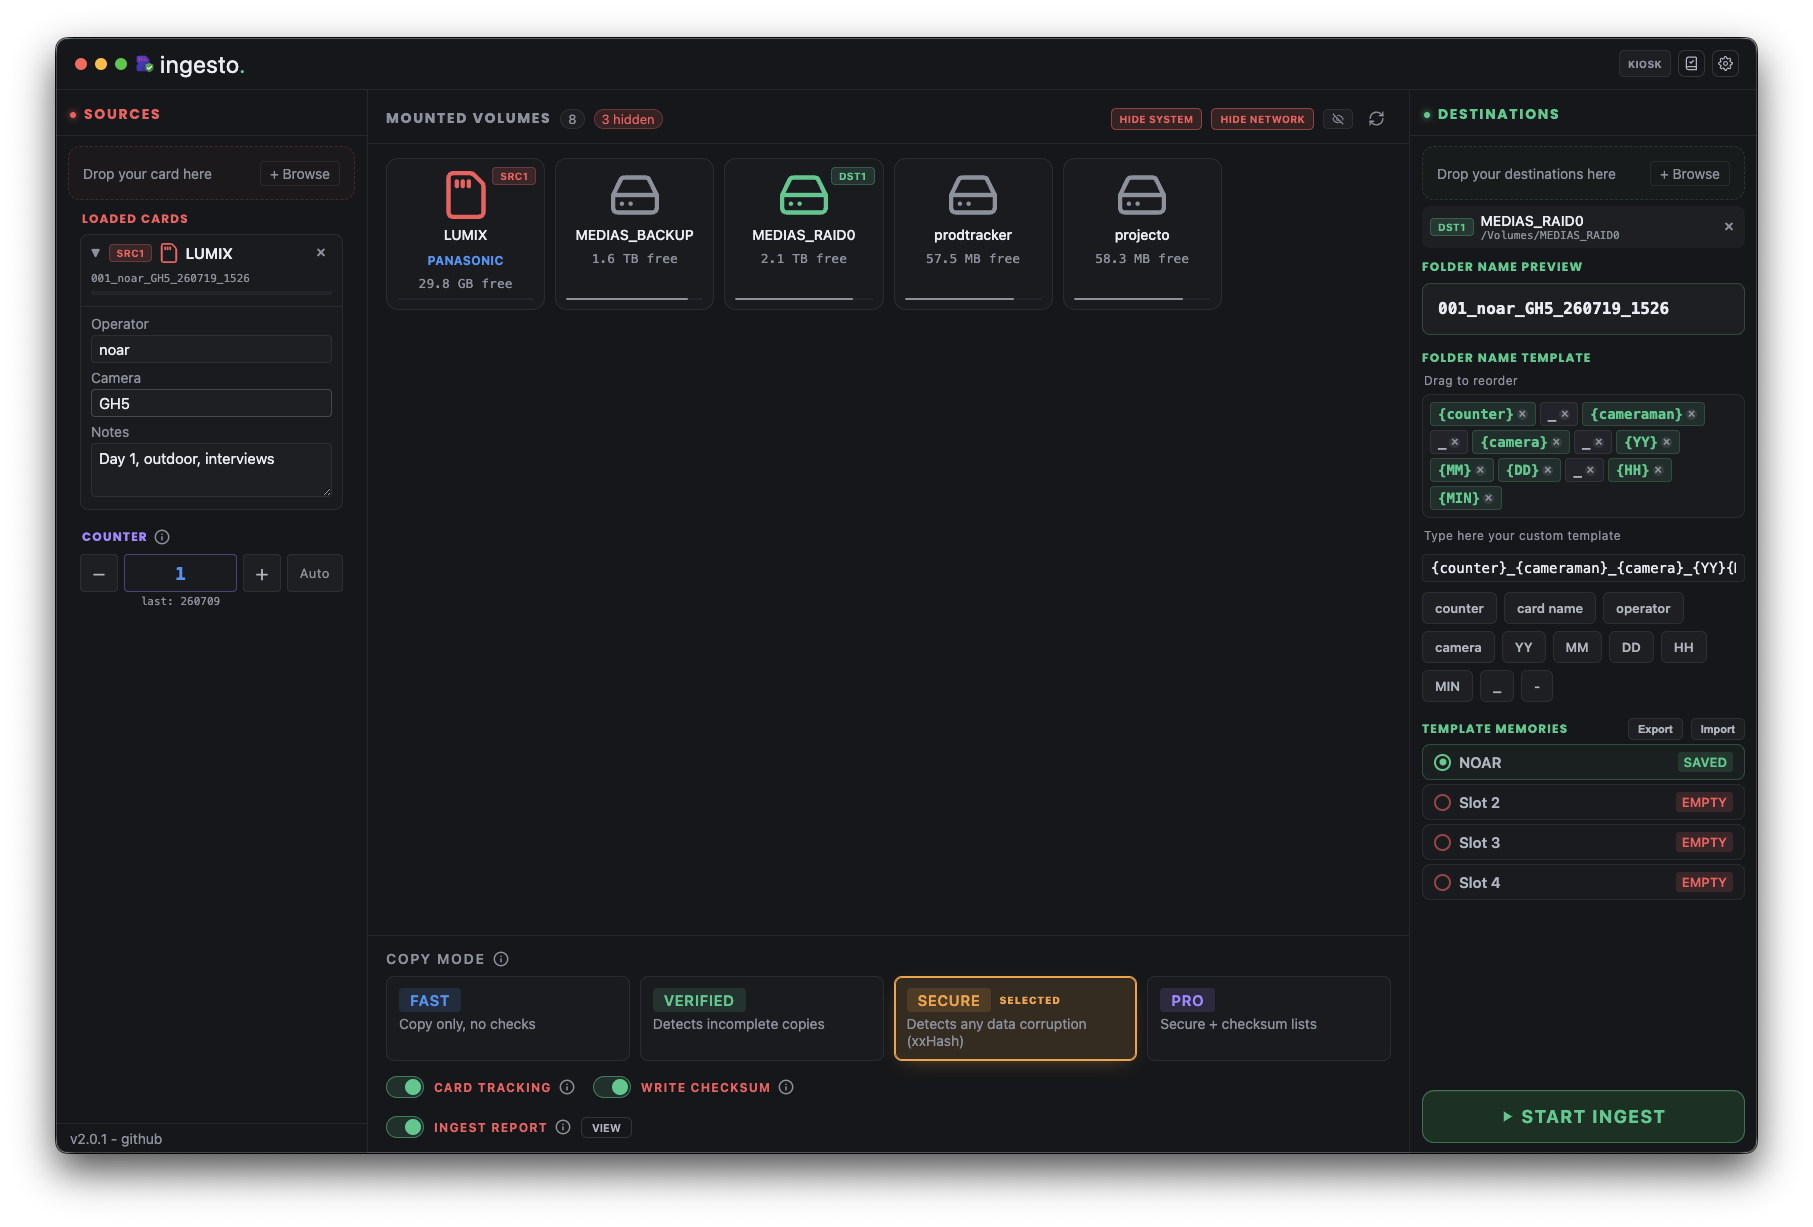
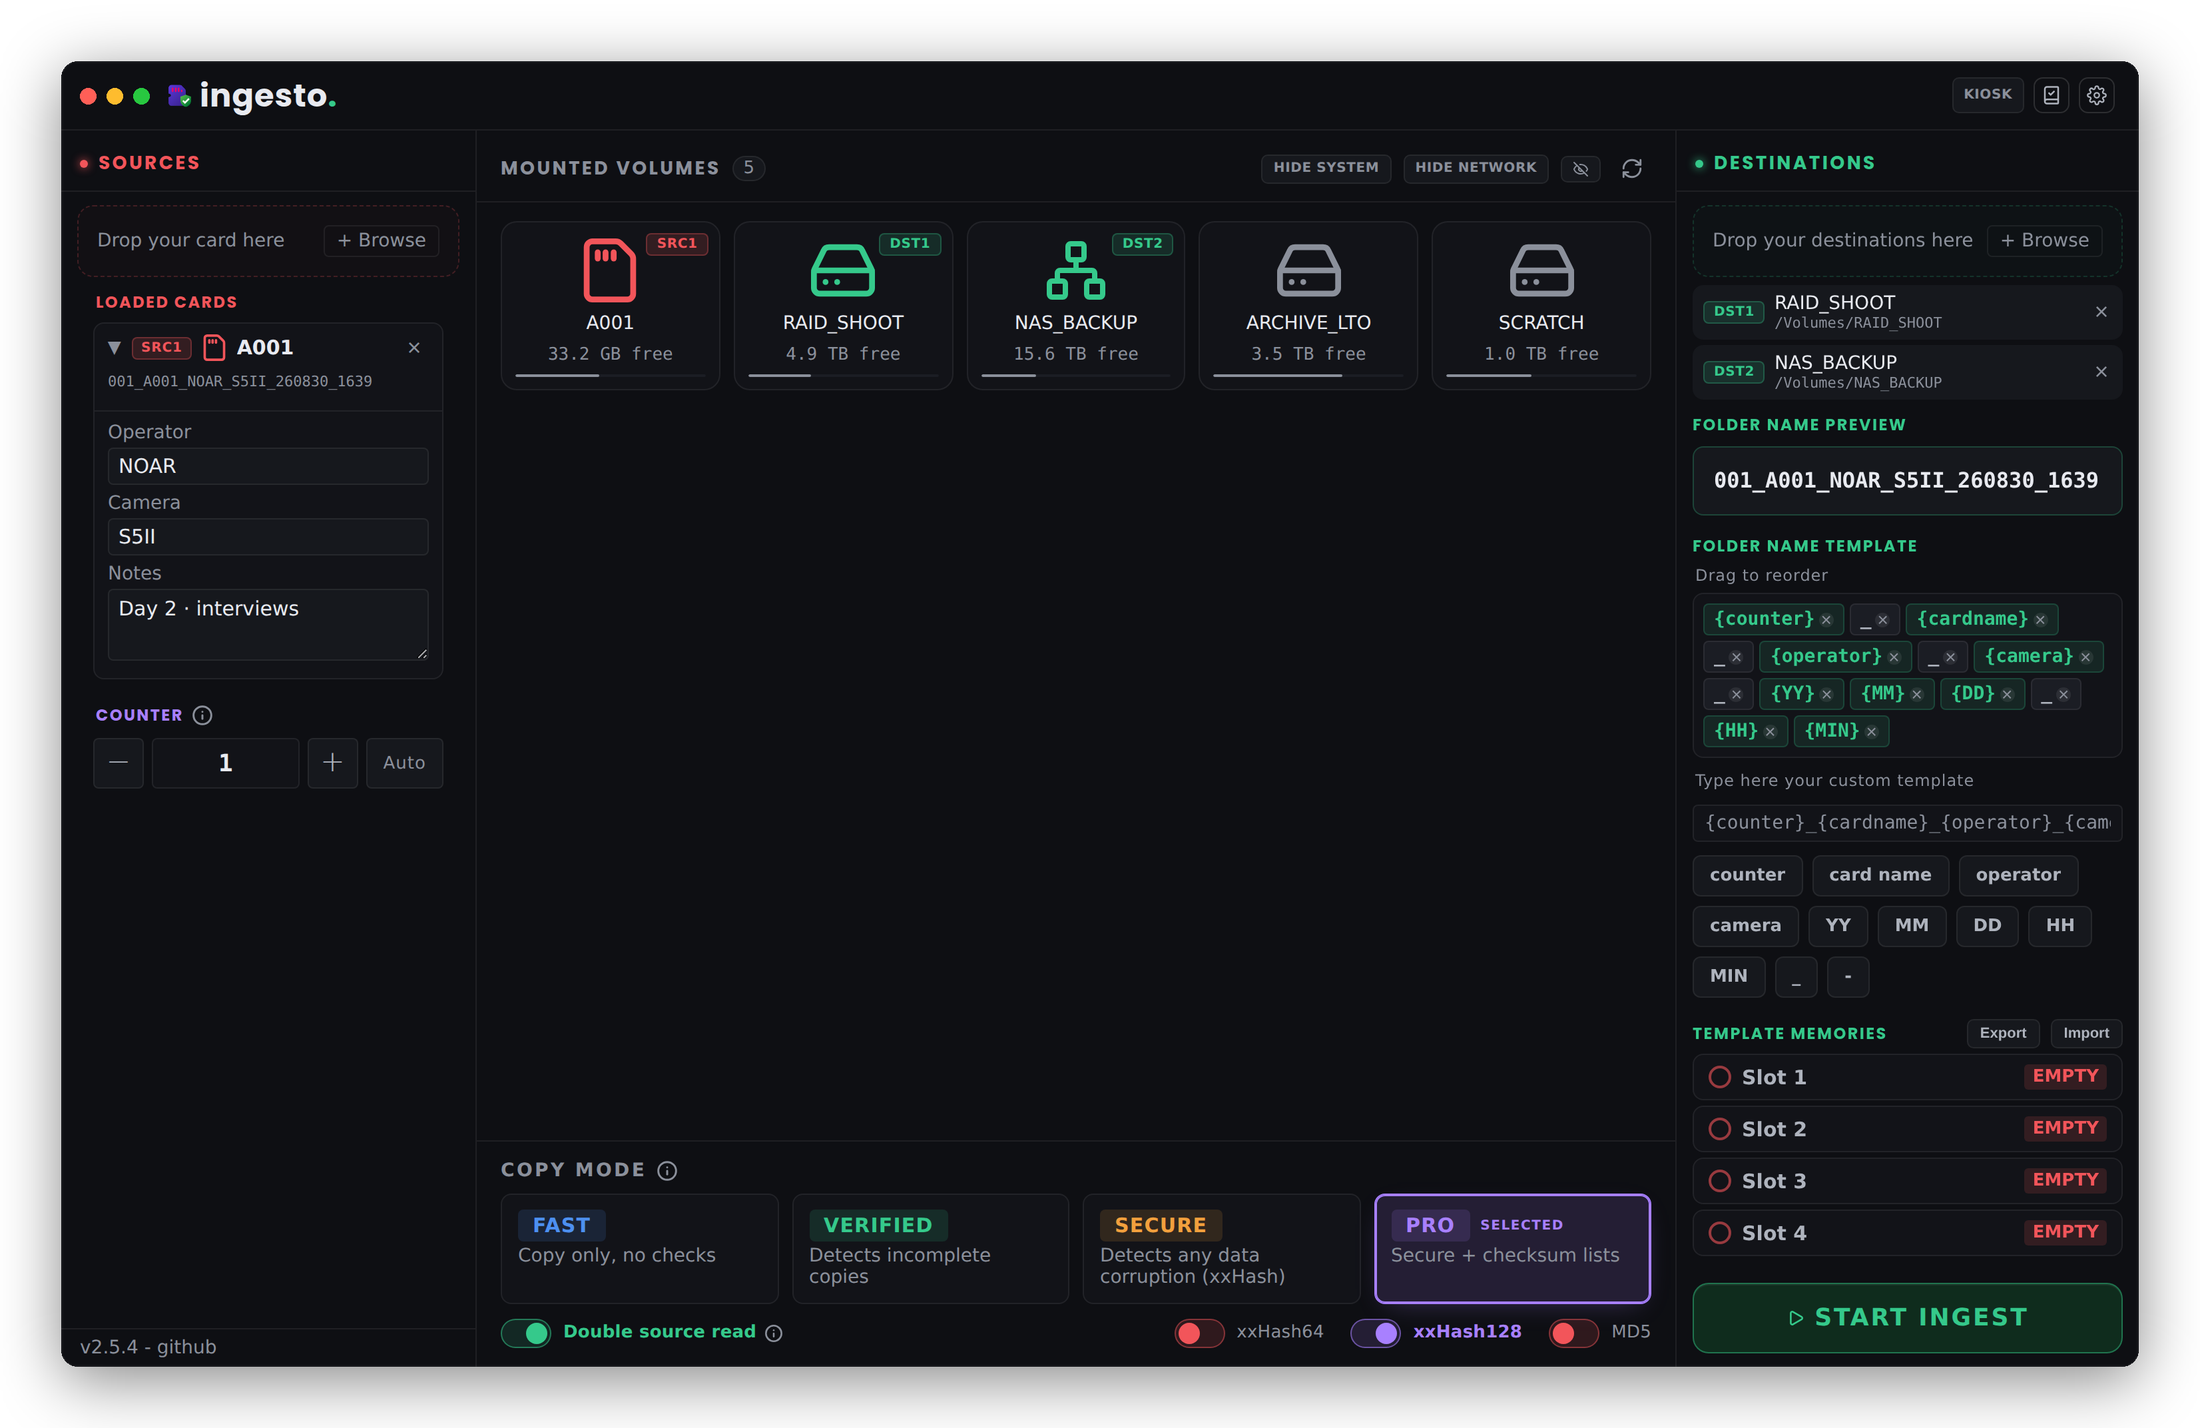
Add files via upload

diff --git a/src/renderer/index.html b/src/renderer/index.html
@@ -3659,7 +3659,13 @@ function tfProgress(d){
   // to whatever is being redone right now. The figures fixed at the start are
   // the ones that describe the card.
   if(!S.tf.retry){
-    if(d.totalFiles) c.files = d.totalFiles;
+    // ONLY during the copy. In the verify phase the engine's `totalFiles` is
+    // the number of verification STEPS — files × destinations, plus the source
+    // pass — because that is what its own progress counts. Adopting it made
+    // the card heading say 168 files while copying and 336 the moment
+    // verification started (504 on three destinations): a figure that
+    // describes the work, printed on the line that describes the card.
+    if(d.phase === 'copy' && d.totalFiles) c.files = d.totalFiles;
     // The displayed size follows what is really being copied (a filter or
     // "new files only" makes it smaller than the card); the RING WEIGHT does
     // not move, or the total would shrink under a run in progress and the

diff --git a/README.md b/README.md
@@ -1,14 +1,40 @@
 # ingesto
 ### Professional Camera Media Ingest — by Just Edit
 
-Free, open-source ingest tool for video/audio professionals (DITs, editors) —
-copy footage off cards and drives with verified integrity, camera auto-detection,
-checksum lists, MHL manifests, and a kiosk mode for on-set use.
+Free, open-source ingest tool for video and audio professionals (DITs, camera
+operators, editors) — copy footage off cards and drives to as many destinations
+as you need, with every file read back and verified, camera auto-detection,
+checksum lists, MHL and ASC MHL manifests, ingest reports, push notifications,
+and a kiosk mode for on-set use.
 
 Licensed under the **GNU General Public License v3.0** (see [`LICENSE`](./LICENSE)).
 You're free to use, study, modify, and redistribute this software, as long as any
 distributed modified version stays under the same license and its source is made
 available. See the license file for the full terms.
+
+macOS · Windows · Linux.
+
+---
+
+![ingesto during an ingest](docs/screenshots/ingesto-ingest.png)
+
+---
+
+## What it does
+
+- **Copies one card to several destinations at once**, then reads every
+  destination back and compares fingerprints — the destinations are verified
+  **at the same time**, not one after the other.
+- **Tells you where every card is**, all the way through: one block per card,
+  one line per destination, each with its own progress and its own throughput.
+- **Refuses to start when something is wrong** rather than failing file by file
+  — a drive that was unplugged after being loaded, two cards that would land in
+  the same folder, a card with nothing on it.
+- **Writes what it did**: an HTML/CSV/JSON report, checksum lists, MHL and
+  ASC MHL v2.0 manifests, and a push notification per card.
+- **Never claims more than it can prove.** A card that reported errors is never
+  displayed as verified, and a run that copied nothing is never reported as a
+  success.
 
 ---
 
@@ -35,15 +61,19 @@ wherever you like (e.g. your Desktop or `~/Documents`).
 
 ### Step 3 — Build the app
 1. Open the `ingesto/scripts/` folder
-2. **Double-click `build-mac.sh`**
+2. **Double-click `build-mac.command`**
    - If macOS asks for confirmation, click **"Open"**
    - A Terminal window opens and builds everything automatically
    - The first run takes 2-3 minutes (downloading dependencies)
 3. When it's done, the script offers to open the `dist/` folder
 
-For Windows, use `scripts/build-win-from-mac.sh` (cross-build from a Mac) —
+For Windows, use `scripts/build-win-from-mac.command` (cross-build from a Mac) —
 the resulting installer is unsigned, so Windows will show a SmartScreen warning
 on first launch (expected; click "More info" → "Run anyway").
+For Linux, run `scripts/build-linux.sh` on a Linux machine.
+
+Building for one platform never erases another platform's output: you can build
+the Mac app and the Windows installer one after the other and keep both.
 
 ### Step 4 — Install the app
 1. In the `dist/` folder, open the `.dmg` file
@@ -64,9 +94,11 @@ If you just want to try it before building:
 ## Using the app
 
 ### Interface
-- **Center column**: mounted volumes (SD cards, drives, etc.), each with a type
-  icon (removable card, system disk, network, external) and an SRC/DST badge
-  once assigned
+- **Center column**: mounted volumes (SD cards, drives, network shares), each
+  with a type icon (removable card, system disk, network, external) and an
+  SRC/DST badge once assigned. During an ingest this column becomes the
+  **ingest queue** — the volumes stay one click away, on the switch at the top
+  right of the column.
 - **Filters** (column header): hide System and/or Network volumes, or manually
   hide a given volume (right-click → Hide Volume)
 - **Eject** (right-click a card or drive → **Eject**): unmounts it without
@@ -81,23 +113,101 @@ If you just want to try it before building:
 2. **Drag** a source volume into the **Sources** zone (left)
    — or right-click a volume → **Set as SOURCE**
 3. **Drag** one or more destination drives into the **Destinations** zone (right)
-4. Enter the **operator**, **camera model**, and notes if needed
-5. Choose a **copy mode**:
-   - **FAST**: copy only, no checks
-   - **VERIFIED**: detects incomplete copies (size)
-   - **SECURE**: detects any data corruption (xxHash64)
-   - **PRO**: Secure + checksum lists, MHL export, optional double source read
+4. Enter the **operator**, **camera model**, and notes if needed —
+   globally, or per card
+5. Choose a **copy mode** (below)
 6. Configure the **folder name** using the variables (drag to reorder them)
 7. Click **START INGEST**
 
-### During the copy
-- Progress ring + real-time throughput bar
-- Remaining files, ETA, speed, errors — all live
-- **Cancel** to stop cleanly
+You can load several cards at once. They are ingested one after the other, each
+one to every destination.
 
-### When it's done
-A complete summary is shown (files copied, verified, any errors), with a sound
-notification and an exportable HTML/CSV/JSON report depending on your settings.
+### Copy modes
+
+| Mode | What it does |
+|---|---|
+| **FAST** | Copy only, no checks |
+| **VERIFIED** | Detects incomplete copies (size) |
+| **SECURE** | Detects any data corruption — every file is read back from each destination and fingerprinted (xxHash64) |
+| **PRO** | Secure, plus checksum lists and manifests, a choice of algorithm (xxHash64 / xxHash128 / MD5), and an optional **double source read** that re-reads the card itself to catch a card that is failing |
+
+In SECURE and PRO the read-back genuinely goes to the disk — ingesto defeats the
+operating system's cache before verifying, so a network destination is really
+read over the network rather than out of memory.
+
+### During the copy — the ingest queue
+
+While a copy runs, the centre column shows the queue:
+
+- a **ring for the whole queue**, weighted by bytes across every piece of work
+  — the copy, one verification per destination, plus the source re-read when
+  PRO has it on. A small card finishing no longer pushes the figure ahead of a
+  large one still waiting.
+- **one block per card**, each with its own ring and, in multi-destination, one
+  nested line per destination carrying its own percentage and its own
+  throughput. A drive falling behind the others is visible instead of being
+  averaged away.
+- a **bar that says which phase** by its colour — green copying, blue verifying,
+  violet during the double source read, red on error.
+- live figures under the header: current file, files and data remaining, speed
+  with its throughput graph, time remaining (estimated per phase), errors.
+
+**Pause** and **Cancel** stay available throughout. Everything else — the card
+list, the destinations, the folder template, the counter, the copy mode — is
+locked for the length of the run, and the values are captured when you press
+Start, so nothing touched afterwards can reach a copy already in flight.
+
+If files fail, a **re-copy** button redoes only those files, and shows the same
+queue while it does it.
+
+### Checksums and manifests
+
+In PRO mode, and depending on your settings, ingesto writes alongside the
+footage:
+
+- a **checksum list** in the TeraCopy-compatible format
+  (`.xxh` / `.xxh3` / `.md5`)
+- a **classic MHL** manifest
+- an **ASC MHL v2.0** history — an `ascmhl` folder holding a manifest and a
+  chain file, in the format the DIT tools of the industry read. Every algorithm
+  ingesto can produce is accepted, and re-copying failed files adds a
+  generation rather than rewriting history. Fingerprints are recorded as
+  `verified`, not `original`: every file in the list was read back from the
+  destination and compared.
+
+Nothing is fingerprinted twice — the manifests are written from the values
+already computed during the ingest.
+
+### Safety checks before an ingest starts
+
+- **A drive that has gone.** Every card and every destination is checked the
+  moment you press Start. Ejecting a destination after loading it and then
+  starting used to run the whole ingest into errors; ingesto now refuses to
+  begin, names the drive, and says nothing has been copied. The check also
+  catches a folder that was a mount point and no longer is, and a different
+  card mounted at the same place.
+- **Two cards landing in the same folder.** With a template carrying no
+  `{counter}` and two cards labelled the same — `NO NAME` is the factory label
+  on half the cards in circulation — the second used to overwrite the first,
+  with both runs reporting success. ingesto resolves every folder name before
+  writing anything and refuses to start if two collide, naming the two cards.
+- **A card with nothing to copy.** A run that copied no file at all is an error
+  that says why — an empty folder, or a file filter that excluded everything —
+  not a green summary.
+
+### Notifications
+
+With ntfy configured, ingesto sends **one complete message per card**: counter
+number and card name, operator and camera, file count, volume and copy mode,
+the source path, one line per destination with its own result, the copy /
+verify / source re-read timings, the total duration, and the card note. A card
+that failed is raised to high priority and names the destination that failed.
+
+### Kiosk mode
+
+A locked, full-screen view for a shared ingest station: one card, big type, a
+ring that follows the whole queue, and an automatic eject when the footage is
+verified. Leaving kiosk mode requires a PIN, which is never written to disk.
 
 ### Verifying a folder later
 The **Verify** button (book icon) lets you re-check a folder that was already
@@ -112,7 +222,7 @@ anything again.
 |----------|-------------|---------|
 | `{counter}` | Auto-incrementing counter | `001`, `002`… |
 | `{cardname}` | Source volume name | `A001` |
-| `{cameraman}` | Operator name entered | `JohnDoe` |
+| `{operator}` | Operator name entered | `JohnDoe` |
 | `{camera}` | Camera model entered/detected | `SonyFX3` |
 | `{YY}` | Short year | `26` |
 | `{MM}` | Month | `04` |
@@ -120,7 +230,23 @@ anything again.
 | `{HH}` | Hour | `14` |
 | `{MIN}` | Minutes | `35` |
 
+`{cameraman}` is kept as a legacy alias of `{operator}`, so older templates
+still load.
+
 **Example**: `001_A001_JohnDoe_SonyFX3_260429_1435`
+
+---
+
+## Building and testing
+
+```
+npm install
+npm start            # run from source
+npm test             # engine test suite
+npm run build        # macOS (Apple Silicon)
+npm run build:win    # Windows installer, cross-built from a Mac
+npm run build:linux  # Linux (run on Linux)
+```
 
 ---
 
@@ -133,7 +259,7 @@ ingesto/
 │   │   ├── main.js            — Electron main process (copy engine, volumes, IPC…)
 │   │   ├── camera-detect.js   — Camera brand/model detection from card structure
 │   │   ├── sentinel.js        — Card tracking (.ingesto.json), off by default
-│   │   ├── nocache.js         — Uncached read-back verification (macOS)
+│   │   ├── nocache.js         — Uncached read-back verification (macOS/Windows/Linux)
 │   │   └── preload.js         — Secure bridge between main and renderer
 │   └── renderer/
 │       └── index.html         — Full user interface (HTML+CSS+JS)
@@ -143,9 +269,11 @@ ingesto/
 ├── docs/
 │   └── screenshots/            — Screenshots used in this README
 ├── scripts/
-│   ├── build-mac.sh           — Build the app for Mac
-│   ├── build-win-from-mac.sh  — Build the app for Windows from a Mac
-│   └── dev.sh                 — Run in dev mode, without building
+│   ├── build-mac.command      — Build the app for Mac
+│   ├── build-win-from-mac.command — Build the Windows installer from a Mac
+│   ├── build-linux.sh         — Build the app for Linux
+│   ├── dev.sh                 — Run in dev mode, without building
+│   └── test-*.js              — Engine test suites (run by `npm test`)
 ├── package.json                — Project configuration
 ├── LICENSE                     — Full text of the GPL v3 license
 └── README.md                   — This file
@@ -176,8 +304,14 @@ on first launch. Two ways to fix it, either works — you only need to do this o
 → Click **↻ Refresh**; check that your cards are actually mounted in Finder/Explorer
 
 **Copying is slow in SECURE or PRO mode**
-→ Expected — computing the checksum (xxHash/MD5) during verification slows the
-copy down, that's the trade-off between speed and integrity guarantees
+→ Expected — every file is read back from every destination and fingerprinted,
+and the read deliberately bypasses the operating system's cache so that the
+check is real. That's the trade-off between speed and integrity guarantees.
+
+**An ingest refuses to start**
+→ Read the message: it names what is wrong (a drive that is no longer there,
+two cards that would land in the same folder, a card with nothing to copy) and
+tells you that nothing has been copied.
 
 ---
 
